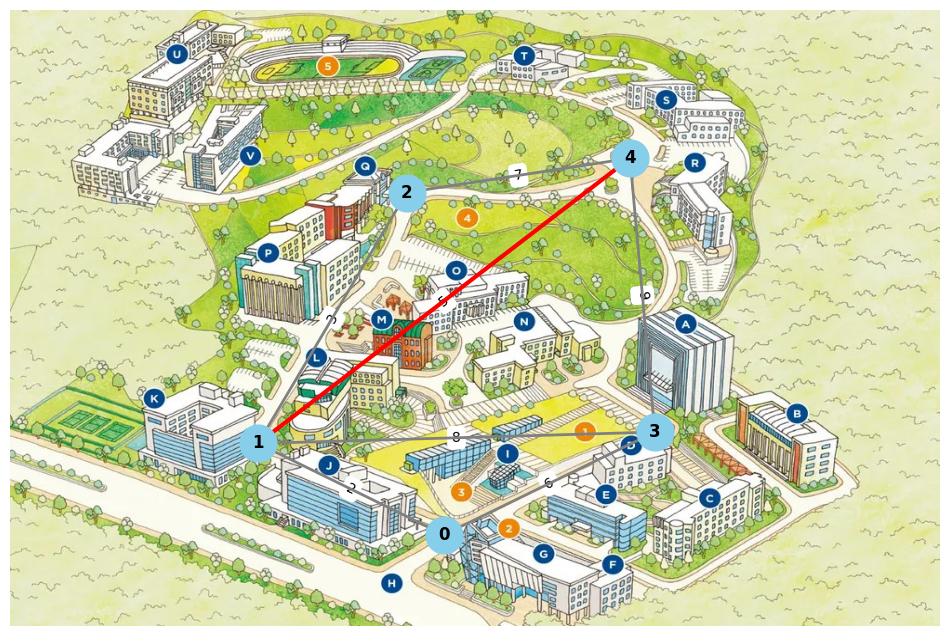
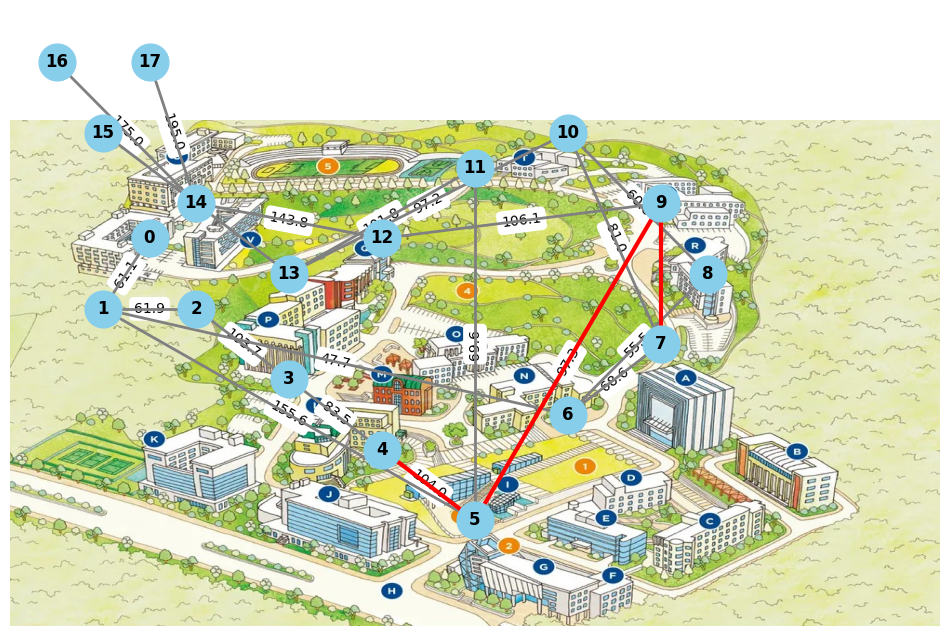
version2

diff --git a/templates/index.html b/templates/index.html
@@ -125,9 +125,9 @@
         <!-- 입력 폼 -->
         <form id="pathForm">
             <label for="source">Source:</label>
-            <input type="number" id="source" name="source" min="0" max="4" required>
+            <input type="number" id="source" name="source" min="0" max="17" required>
             <label for="target">Target:</label>
-            <input type="number" id="target" name="target" min="0" max="4" required>
+            <input type="number" id="target" name="target" min="0" max="17" required>
             <button type="submit">Find Path</button>
         </form>
 

diff --git a/app.py b/app.py
@@ -3,24 +3,51 @@ import os
 from dijkstra import dijkstra
 import networkx as nx
 import matplotlib.pyplot as plt
+import time
 
 app = Flask(__name__)
 
 # Graph data
 adj_matrix = [
-    [0, 2, 0, 6, 0],
-    [0, 0, 3, 8, 5],
-    [0, 0, 0, 0, 7],
-    [0, 0, 0, 0, 9],
-    [0, 0, 0, 0, 0]
+    [0.0, 61.1, 0.0, 0.0, 0.0, 0.0, 0.0, 0.0, 0.0, 0.0, 0.0, 0.0, 0.0, 0.0, 0.0, 0.0, 0.0, 0.0, 0.0],  # H
+    [57.7, 0.0, 61.9, 0.0, 0.0, 155.6, 47.7, 0.0, 0.0, 0.0, 0.0, 0.0, 0.0, 0.0, 0.0, 0.0, 0.0, 0.0, 0.0],  # W
+    [0.0, 61.9, 0.0, 103.7, 0.0, 0.0, 0.0, 0.0, 0.0, 0.0, 0.0, 0.0, 0.0, 0.0, 0.0, 0.0, 0.0, 0.0, 0.0],  # E
+    [0.0, 0.0, 103.7, 0.0, 83.5, 0.0, 0.0, 0.0, 0.0, 0.0, 0.0, 0.0, 0.0, 0.0, 0.0, 0.0, 0.0, 0.0, 0.0],  # C
+    [0.0, 0.0, 0.0, 83.5, 0.0, 104.0, 0.0, 0.0, 0.0, 0.0, 0.0, 0.0, 0.0, 0.0, 0.0, 0.0, 0.0, 0.0, 0.0],  # B
+    [0.0, 155.6, 0.0, 0.0, 104.0, 0.0, 0.0, 0.0, 0.0, 97.3, 0.0, 69.6, 0.0, 0.0, 0.0, 0.0, 0.0, 0.0, 0.0],  # A
+    [0.0, 47.7, 0.0, 0.0, 0.0, 0.0, 0.0, 68.6, 55.5, 0.0, 0.0, 0.0, 0.0, 0.0, 0.0, 0.0, 0.0, 0.0, 0.0],  # J
+    [0.0, 0.0, 0.0, 0.0, 0.0, 0.0, 68.6, 0.0, 0.0, 0.0, 81.0, 0.0, 0.0, 0.0, 0.0, 0.0, 0.0, 0.0, 0.0],  # K
+    [0.0, 0.0, 0.0, 0.0, 0.0, 97.3, 0.0, 0.0, 36.4, 0.0, 60.8, 0.0, 0.0, 0.0, 0.0, 0.0, 0.0, 0.0, 49.2],  # L
+    [0.0, 0.0, 0.0, 0.0, 0.0, 0.0, 0.0, 81.0, 0.0, 60.8, 0.0, 0.0, 106.1, 0.0, 0.0, 0.0, 0.0, 0.0, 0.0],  # X
+    [0.0, 0.0, 0.0, 0.0, 0.0, 69.6, 0.0, 0.0, 0.0, 0.0, 0.0, 0.0, 0.0, 97.2, 0.0, 0.0, 0.0, 0.0, 73.2],  # P
+    [0.0, 0.0, 0.0, 0.0, 0.0, 0.0, 0.0, 0.0, 0.0, 0.0, 106.1, 0.0, 0.0, 101.8, 0.0, 0.0, 0.0, 0.0, 0.0],  # Q
+    [0.0, 0.0, 0.0, 0.0, 0.0, 0.0, 0.0, 0.0, 0.0, 0.0, 0.0, 97.2, 101.8, 0.0, 143.8, 0.0, 0.0, 0.0, 0.0],  # R
+    [0.0, 0.0, 0.0, 0.0, 0.0, 0.0, 0.0, 0.0, 0.0, 0.0, 0.0, 0.0, 0.0, 143.8, 0.0, 95.0, 0.0, 0.0, 0.0],  # S
+    [0.0, 0.0, 0.0, 0.0, 0.0, 0.0, 0.0, 0.0, 0.0, 0.0, 0.0, 0.0, 0.0, 0.0, 95.0, 0.0, 175.0, 195.0, 0.0],  # T
+    [0.0, 0.0, 0.0, 0.0, 0.0, 0.0, 0.0, 0.0, 0.0, 0.0, 0.0, 0.0, 0.0, 0.0, 0.0, 175.0, 0.0, 0.0, 0.0],  # V1
+    [0.0, 0.0, 0.0, 0.0, 0.0, 0.0, 0.0, 0.0, 0.0, 0.0, 0.0, 0.0, 0.0, 0.0, 0.0, 195.0, 0.0, 0.0, 0.0],  # V2
+    [0.0, 0.0, 0.0, 0.0, 0.0, 0.0, 0.0, 0.0, 0.0, 49.2, 0.0, 73.2, 0.0, 0.0, 0.0, 0.0, 0.0, 0.0, 0.0]   # α
 ]
 
 node_positions = {
-    0: (466.67, 106.22),
-    1: (266.67, 212.44),
-    2: (426.67, 504.56),
-    3: (693.33, 225.72),
-    4: (666.67, 544.39)
+    0: (150, 550),   # H
+    1: (100, 450),   # W
+    2: (200, 450),   # E
+    3: (300, 350),   # C
+    4: (400, 250),   # B
+    5: (500, 150),   # A
+    6: (600, 300),   # J
+    7: (700, 400),   # K
+    8: (750, 500),   # L
+    9: (700, 600),   # X
+    10: (600, 700),  # P
+    11: (500, 650),  # Q
+    12: (400, 550),  # R
+    13: (300, 500),  # S
+    14: (200, 600),  # T
+    15: (100, 700),  # V1
+    16: (50, 800),   # V2
+    17: (150, 800),  # α
 }
 
 @app.route('/')
@@ -32,19 +59,21 @@ def shortest_path():
     data = request.json
     source = int(data['source'])
     target = int(data['target'])
+    print(f"Received source: {source}, target: {target}")  # 로그 출력
 
     # Run Dijkstra algorithm
     dist, path = dijkstra(adj_matrix, source, target)
 
-    # Save the visualization
-    result_image_path = os.path.join('static', 'shortest_path.png')
+    # Save the visualization with a unique name
+    timestamp = int(time.time())  # Use current timestamp for uniqueness
+    result_image_path = os.path.join('static', f'shortest_path_{timestamp}.png')
     visualize_graph_with_background(adj_matrix, dist, path, result_image_path)
 
     # Return JSON response
     return jsonify({
         'distance': dist,
         'path': path,
-        'image_path': 'static/shortest_path.png'
+        'image_path': result_image_path
     })
 
 def visualize_graph_with_background(adj_matrix, dist, path, output_path):
